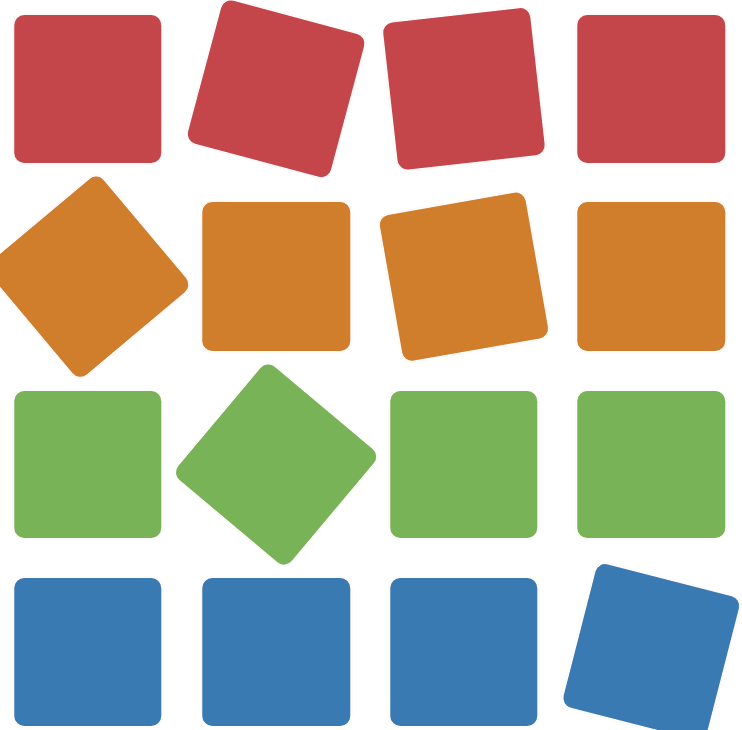
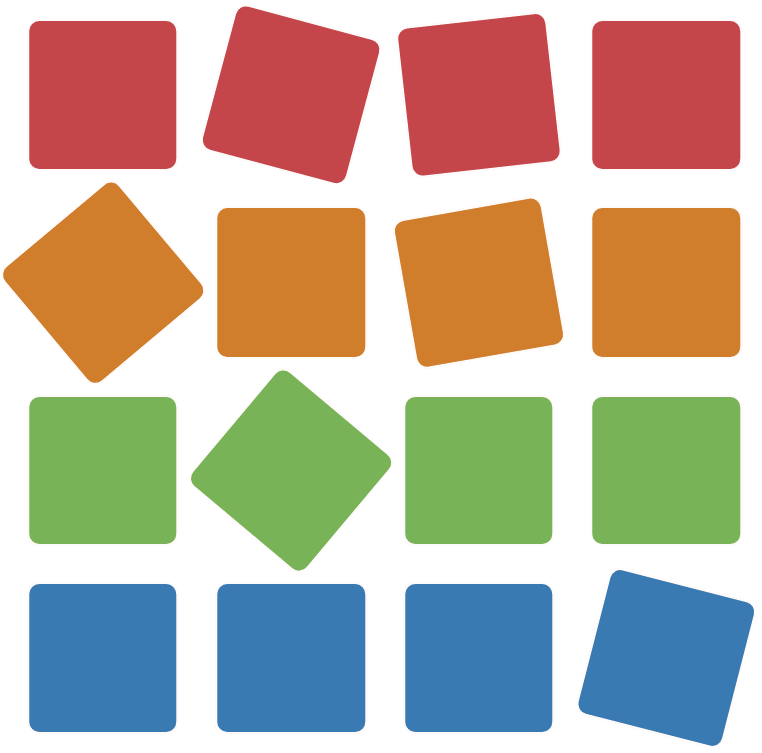
versione 1.0

diff --git a/index.html b/index.html
@@ -71,6 +71,7 @@
             display: flex; align-items: center; gap: 6px; border: 1px solid rgba(255, 171, 64, 0.15);
             letter-spacing: 0.5px;
         }
+        html.light .streak-badge { color: #cb7405; background: rgba(255, 171, 64, 0.3); }
 
         .account-actions { display: flex; gap: 8px; }
         .account-actions button {
@@ -195,7 +196,7 @@
             font-weight: 700; cursor: pointer; text-transform: uppercase; letter-spacing: 1px;
             font-size: 0.8rem; transition: all 0.2s;
         }
-        .delete { background: var(--btn-bg); color: var(--text-muted); }
+        .delete { background: var(--btn-bg); }
         .delete:hover { background: var(--btn-hover); color: var(--text-main); }
         .shuffle { background: var(--btn-bg); color: var(--text-main); }
         .shuffle:hover { background: var(--btn-hover); }
@@ -402,7 +403,7 @@
     </a>
     <button id="theme-toggle" onclick="toggleTheme()" title="Cambia tema">🌙</button>
     <div class="account-info">
-        <span class="streak-badge">🔥 <span id="streak-display">0</span> ORE</span>
+        <span class="streak-badge">🔥 <span id="streak-display">0</span> STREAK</span>
     </div>
     <div class="account-actions">
         <button class="juicy-sm stats-btn" onclick="toggleStats(true)"><span>Statistiche</span></button>
@@ -454,10 +455,6 @@
         <div id="timer">00:00:00</div>
     </div>
 </main>
-
-<div style="text-align:center;padding:12px 0;font-size:0.65rem;color:var(--text-muted)">
-    <a href="https://www.pexels.com" target="_blank" rel="noopener" style="color:var(--text-muted);text-decoration:underline">Photos provided by Pexels</a>
-</div>
 
 <div class="modal-overlay" id="auth-gate-overlay">
     <div class="modal-content">
@@ -870,22 +867,16 @@
             localStorage.setItem(doneKey, 'true');
         }
 
-        const giaCompletataUnAltra = ['facile','medio','difficile'].some(
-            d => d !== difficoltaCorrente && difficoltaCompletata(d)
-        );
-        
-        if (userStats.ultimaOraVinta !== chiaveOraCorrente && !giaCompletataUnAltra) {
-            userStats.streak = userStats.streak + 1;
-            if (userStats.streak > userStats.maxStreak) userStats.maxStreak = userStats.streak;
+        userStats.streak = userStats.streak + 1;
+        if (userStats.streak > userStats.maxStreak) userStats.maxStreak = userStats.streak;
 
-            userStats.totaleRisolti += 1;
-            userStats.totaleTentativi += tentativiOraCorrente;
-            userStats.ultimaOraVinta = chiaveOraCorrente;
-            
-            localStorage.setItem('scompidle_user_stats', JSON.stringify(userStats));
-            document.getElementById('streak-display').innerText = userStats.streak;
-            syncConServer();
-        }
+        userStats.totaleRisolti += 1;
+        userStats.totaleTentativi += tentativiOraCorrente;
+        userStats.ultimaOraVinta = chiaveOraCorrente;
+        
+        localStorage.setItem('scompidle_user_stats', JSON.stringify(userStats));
+        document.getElementById('streak-display').innerText = userStats.streak;
+        syncConServer();
     }
 
     setInterval(() => {

diff --git a/README.md b/README.md
@@ -6,206 +6,175 @@
 
 ## Badges
 
-<!-- ![Status](https://img.shields.io/badge/status-active-success?style=for-the-badge) -->
-![Status](https://img.shields.io/badge/status-inactive-red?style=for-the-badge)  
- 
-![AI](https://img.shields.io/badge/AI-Groq-blueviolet?style=for-the-badge)   
-![License](https://img.shields.io/badge/license-private-lightgrey?style=for-the-badge)   
-![Game Type](https://img.shields.io/badge/type-word%20puzzle-black?style=for-the-badge)   
-
-![Frontend](https://img.shields.io/badge/frontend-HTML%20%7C%20CSS%20%7C%20JS-orange?style=for-the-badge)   
+![Status](https://img.shields.io/badge/status-active-success?style=for-the-badge)
+![AI](https://img.shields.io/badge/AI-Groq-blueviolet?style=for-the-badge)
+![Game Type](https://img.shields.io/badge/type-word%20puzzle-black?style=for-the-badge)
+![Frontend](https://img.shields.io/badge/frontend-HTML%20%7C%20CSS%20%7C%20JS-orange?style=for-the-badge)
 ![Backend](https://img.shields.io/badge/backend-node.js-green?style=for-the-badge)
+![Database](https://img.shields.io/badge/database-SQLite-blue?style=for-the-badge)
 
 ---
 
-## Preview
+## Cos'è Scompidle
 
-![Gameplay Preview](INSERIRE FOTO)
+Scompidle è un gioco di parole che cambia ogni ora. Ogni ora ricevi un nuovo puzzle con 4 parole da scoprire, legate a un tema generato dall'AI.
 
----
-
-## Cos’è Scompidle
-
-Scompidle è un gioco di parole che cambia ogni ora.
-
-Ogni ora ti arriva un nuovo puzzle, sempre diverso:
-
-* tema generato al volo
-* parole coerenti col tema
-* controllate dall’AI
-* zero ripetizioni random a caso
+![Logo](https://tiny-grass-2b73.sonounutentegoogl.workers.dev/)
 
 ---
 
 ## Come si gioca
 
-![Loop](INSERIRE FOTO)
-
-Ogni ora succede questo:
-
-1. viene scelto un tema (tipo: cucina, sport, scuola, ecc.)
-2. vengono generate 4 parole collegate tra loro
-3. tutte le lettere vengono mischiate in un unico pool
-4. tu devi ricostruire le parole
-
-Quando ne indovini una, quelle lettere spariscono dal gioco.
-
----
-
-## Meccaniche
-
+1. Viene scelto un tema (cucina, sport, scuola, ecc.)
+2. Vengono generate 4 parole collegate tra loro (lunghezze tutte diverse)
+3. Tutte le lettere vengono mischiate in un unico pool
+4. Ricostruisci le parole cliccando le lettere o usando la tastiera
+5. Quando indovini una parola, le lettere spariscono e compare un'immagine correlata
 
 ### Controlli
 
-| Tasto     | Cosa fa         |
-| --------- | --------------- |
-| A-Z       | scrivi lettere  |
-| Backspace | cancella        |
-| Spazio    | mescola lettere |
-| Enter     | invia parola    |
+| Tasto     | Azione            |
+| --------- | ----------------- |
+| A-Z       | Scrivi lettere    |
+| Backspace | Cancella ultima   |
+| Spazio    | Mescola lettere   |
+| Enter     | Invia parola      |
 
 ---
 
-## Stile del gioco
+## Funzionalità
 
-![UI](INSERIRE FOTO)
+### 3 Livelli di Difficoltà
 
-### Colori
+- **Facile** — Parole comuni e brevi (4-6 lettere), temi familiari
+- **Medio** — Difficoltà bilanciata (4-8 lettere), temi vari
+- **Difficile** — Parole più lunghe (5-9 lettere), temi specifici
 
-Ogni parola completata viene assegnata a uno stato visivo tramite colore.
-I colori non sono casuali: dipendono dalla lunghezza della parola.
+Ogni livello ha progresso e salvataggio indipendente.
 
-* 🔴 Rosso → parola più corta (minimo 4 lettere)
-* 🟠 Arancione → leggermente più lunga
-* 🟢 Verde → parole medio-lunghe
-* 🔵 Blu → parola più lunga (fino a 9 lettere)
+### Generazione AI (Groq)
 
-Le 4 parole di ogni puzzle hanno lunghezze tutte diverse, quindi ogni colore rappresenta un livello diverso di complessità.
+Usa il modello `openai/gpt-oss-120b` di Groq per generare i puzzle. Il sistema:
+- genera il puzzle un'ora prima
+- valida che non ci siano duplicati, sottoparole o lunghezze uguali
+- se fallisce, riprova automaticamente
+- tiene traccia di temi e parole già usati per evitare ripetizioni
 
+### Sistema di Autenticazione
 
----
+- ID utente generato automaticamente (formato: animale-aggettivo-numero, es. `lince-glaciale-481`)
+- Password hashata con SHA-256
+- Sincronizzazione progressi tra dispositivi
+- Possibilità di cambiare password dal profilo
 
-## Account
+![Logo](https://square-art-443c.sonounutentegoogl.workers.dev/)
 
-![Auth](INSERIRE FOTO)
+### Statistiche
 
-Ogni utente ha:
+- Ore completate
+- Streak attuale e miglior streak
+- Tentativi medi per puzzle
 
-* un ID generato tipo animale-aggettivo-numero
-* password salvata hashata
-* possibilità di sync tra dispositivi
+![Logo](https://summer-art-40af.sonounutentegoogl.workers.dev/)
 
-Esempio:
+### Immagini (Pexels)
 
+Alla scoperta di ogni parola, viene caricata un'immagine correlata tramite API Pexels, con caching locale per evitare chiamate ripetute.
 
-lince-glaciale-481
+### Temi (Dark/Light)
 
+Supporto di temi chiaro e scuro con preferenza salvata in localStorage e rispetto della preferenza di sistema.
 
----
+### Animazione di Vittoria
 
-## Sicurezza (base ma seria)
+Canvas animation con particelle e loader stile "party" al completamento di una sfida.
 
-* password hashate (SHA-256)
-* sessioni server-side
-* controlli backend sempre attivi
+![Logo](https://wild-glitter-3921.sonounutentegoogl.workers.dev/)
 
----
+### Salvataggio Progresso
 
-## Statistiche
+Il gioco salva automaticamente il progresso per ogni ora e difficoltà, permettendo di riprendere da dove si era lasciato.
 
-![Stats](INSERIRE FOTO)
+### Altro
 
-Tiene traccia di:
-
-* ore completate
-* streak attuale
-* miglior streak
-* tentativi medi per puzzle
-
-
----
-
-## AI Engine
-
-![AI](INSERIRE FOTO)
-
-Usa Groq per generare i puzzle.
-
-### Come funziona
-
-* genera il puzzle un’ora prima
-* controlla che sia valido
-* se fallisce, ritenta da solo
-* non blocca mai il gioco
-
----
-
-### Regole dei puzzle
-
-* niente parole duplicate
-* parole tra 4 e 9 lettere
-* niente ripetizioni recenti
-* tema sempre coerente
+- Logo animato con lettere che si mischiano all'hover
+- Background ondulato animato (SVG + CSS)
+- Countdown per la prossima sfida
+- Notifiche toast
+- Pulisce automaticamente i salvataggi delle ore precedenti
 
 ---
 
 ## Architettura
 
+```
 ┌──────────────────────┐    ┌──────────────┐    ┌──────────────────────────┐    ┌────────────────────┐
-│ Frontend (JS puro)   │ →  │ Express API  │ →  │ SQLite DB (2 database)   │ →  │ AI Engine (Groq)   │
+│ Frontend (JS puro)   │ →  │ Express API  │ →  │ SQLite DB (gioco + user) │ →  │ AI Engine (Groq)   │
 └──────────────────────┘    └──────────────┘    └──────────────────────────┘    └────────────────────┘
-
----
+                                    ↓
+                           ┌──────────────────┐
+                           │ Pexels API       │
+                           │ (immagini)       │
+                           └──────────────────┘
+```
 
 ## Database
 
-### game.db
-
-* storico temi
-* parole usate
-* anti-ripetizione
+### gioco.db
+- Storico temi usati
+- Storico parole usate
+- Sistema anti-ripetizione
 
 ### user.db
+- Utenti con ID anonimi
+- Password hashate (SHA-256)
+- Statistiche e streak
 
-* utenti
-* password hashate
-* statistiche e streak
+## API Endpoints
 
----
+| Metodo | Endpoint             | Descrizione                    |
+| ------ | --------------------  | ------------------------------ |
+| GET    | `/api/sfida-corrente` | Recupera la sfida dell'ora     |
+| POST   | `/api/register`       | Registra nuovo utente          |
+| POST   | `/api/login`          | Autentica utente               |
+| POST   | `/api/sync`           | Sincronizza statistiche        |
+| POST   | `/api/change-password` | Cambia password               |
+| GET    | `/api/proxy-immagine`  | Proxy immagini Pexels (cached) |
 
-## Sistema del tempo
+## Tecnologie
 
-Formato:
+- **Frontend**: HTML, CSS (variabili CSS, animazioni), JavaScript vanilla
+- **Backend**: Node.js, Express
+- **Database**: SQLite (better-sqlite3)
+- **AI**: Groq SDK (openai/gpt-oss-120b)
+- **API Terze**: Pexels (immagini stock)
 
+## Setup
 
-YYYY-M-D-HH
-
-
-Serve per:
-
-* garantire puzzle diversi ogni ora
-* sincronizzazione globale
-* evitare duplicati
-
----
+1. Clona il repository
+2. Installa le dipendenze: `npm install`
+3. Crea un file `.env` con le tue chiavi:
+   ```
+   GROQ_API_KEY=la_tua_chiave_groq
+   PEXELS_API_KEY=la_tua_chiave_pexels
+   ```
+4. Avvia il server: `node server.js`
+5. Apri `http://localhost:3000`
 
 ## Stabilità
 
-* se l’AI si rompe, il gioco continua comunque
-* retry automatici
-* recovery all’avvio
-* fallback sempre attivo
-* backend separati per auth e game
+- Se l'AI si rompe, il gioco continua comunque
+- Retry automatici con backoff
+- Cache su disco delle sfide generate
+- Recovery all'avvio: se mancano sfide per l'ora corrente o successiva, vengono generate automaticamente
+- Caching delle immagini per ridurre chiamate API
 
 ---
 
 ## Conclusione
 
-Scompidle è nato un po’ per gioco. 
-L’idea era semplice, ma metterla in piedi non lo è mai davvero.
+Scompidle è nato un po' per gioco. L'idea era semplice, ma metterla in piedi non lo è mai davvero.
 
 Non è un progetto perfetto, né qualcosa di finito: cambia e ogni tanto si rompe pure, come succede quando provi a costruire qualcosa da zero senza una guida precisa.
 
 Il giudizio finale lo lasciamo a chi ci gioca. Noi abbiamo fatto la nostra parte, adesso tocca a voi giocarci.
-
----